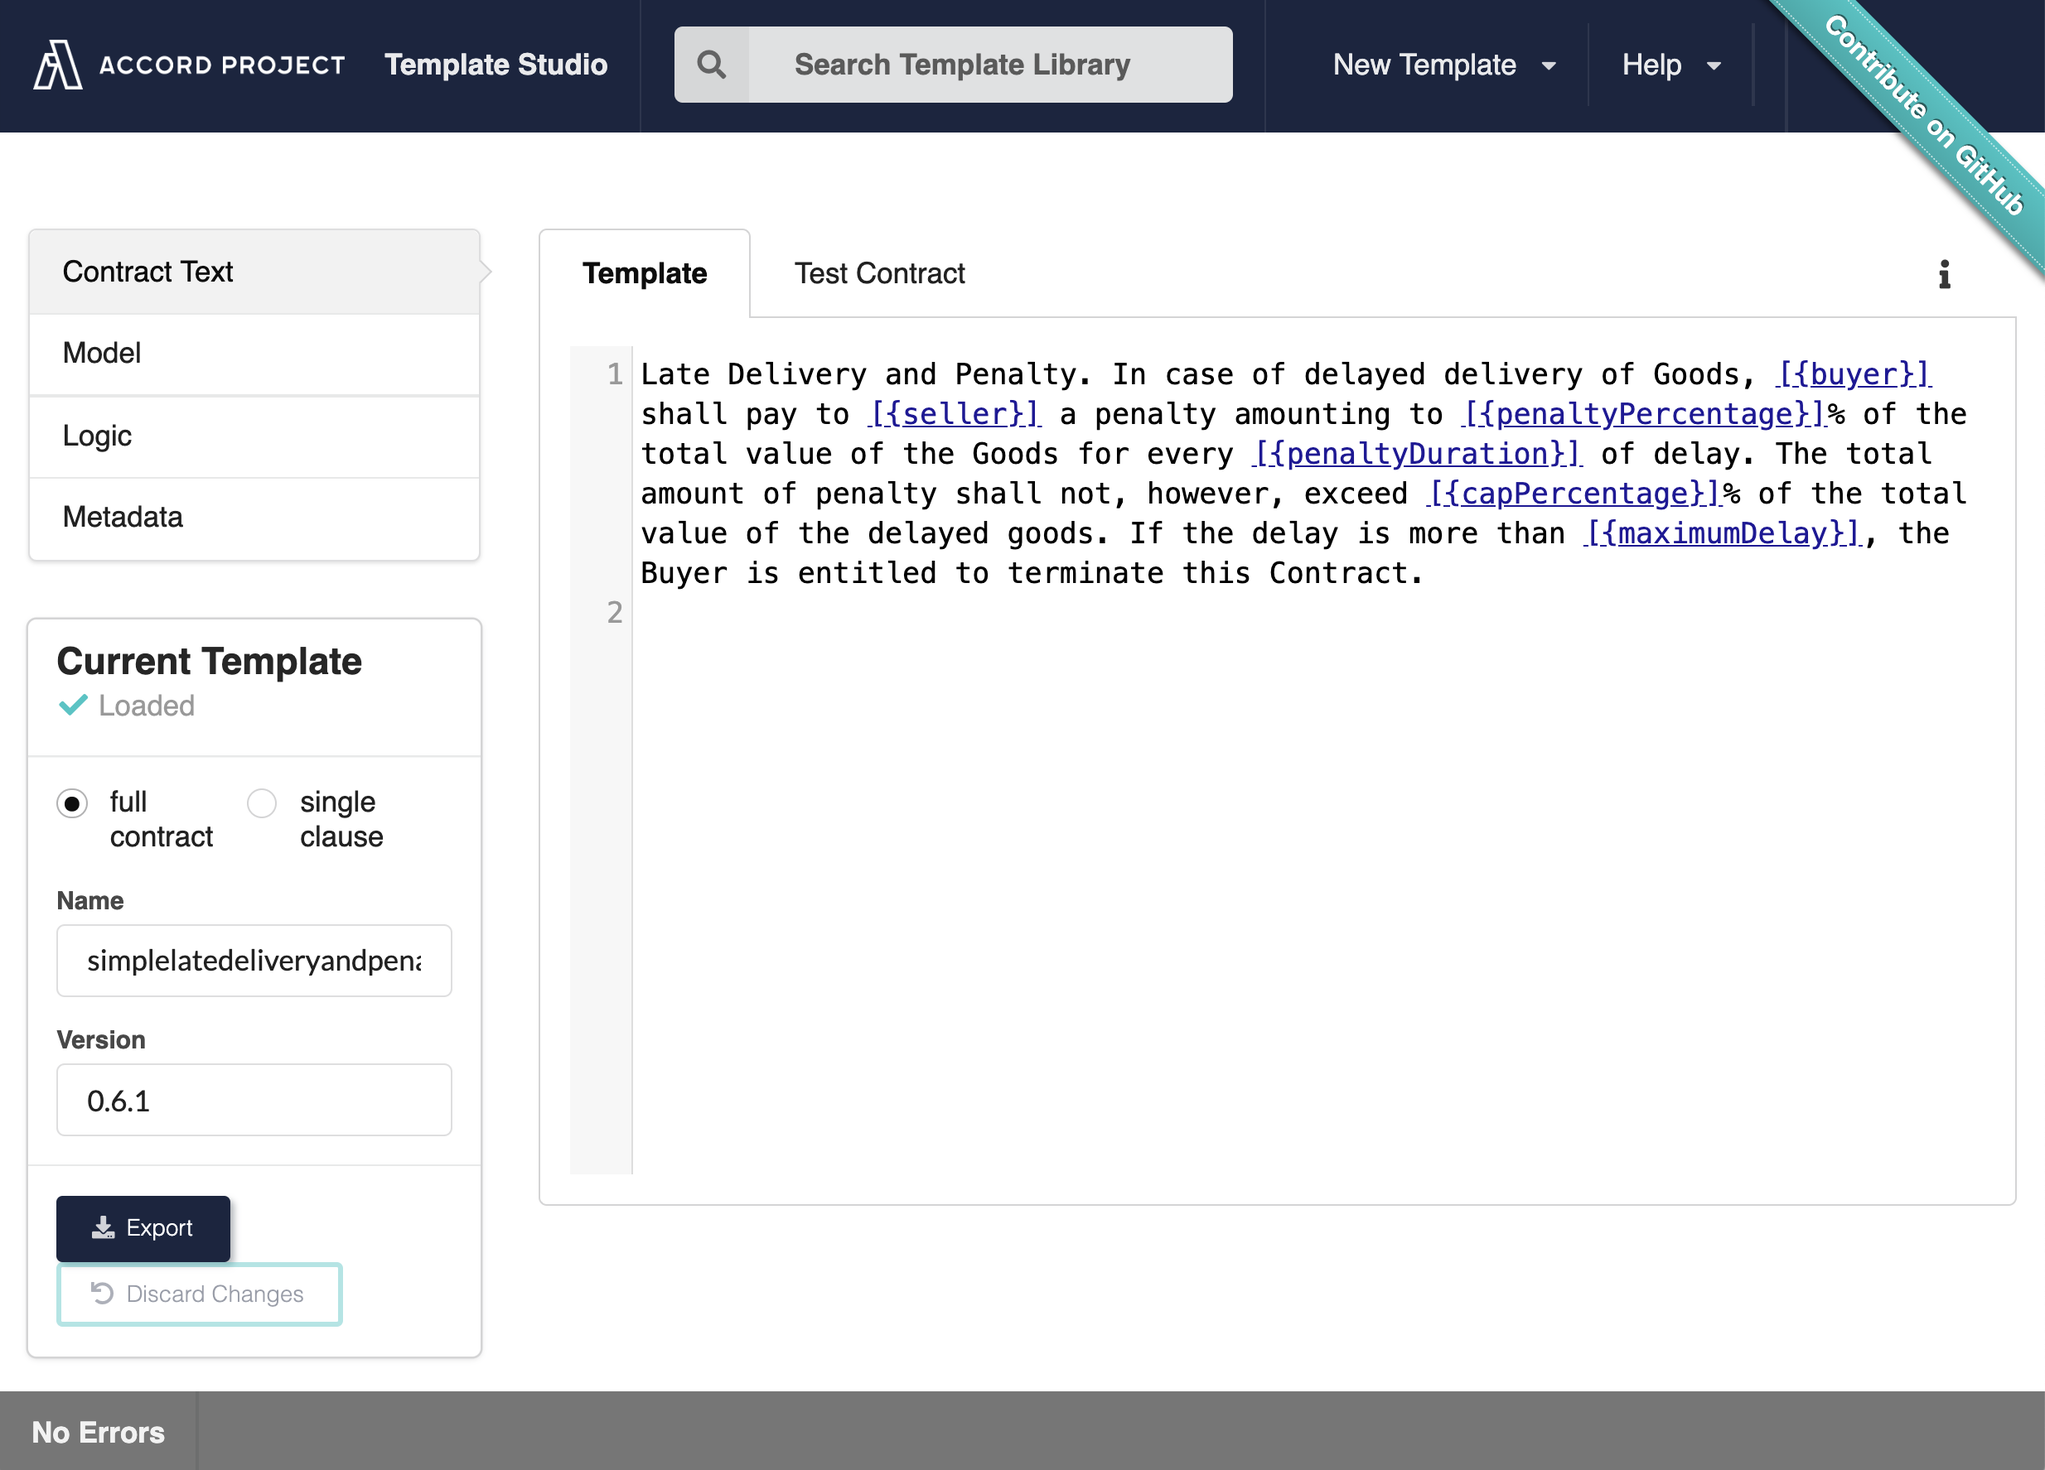
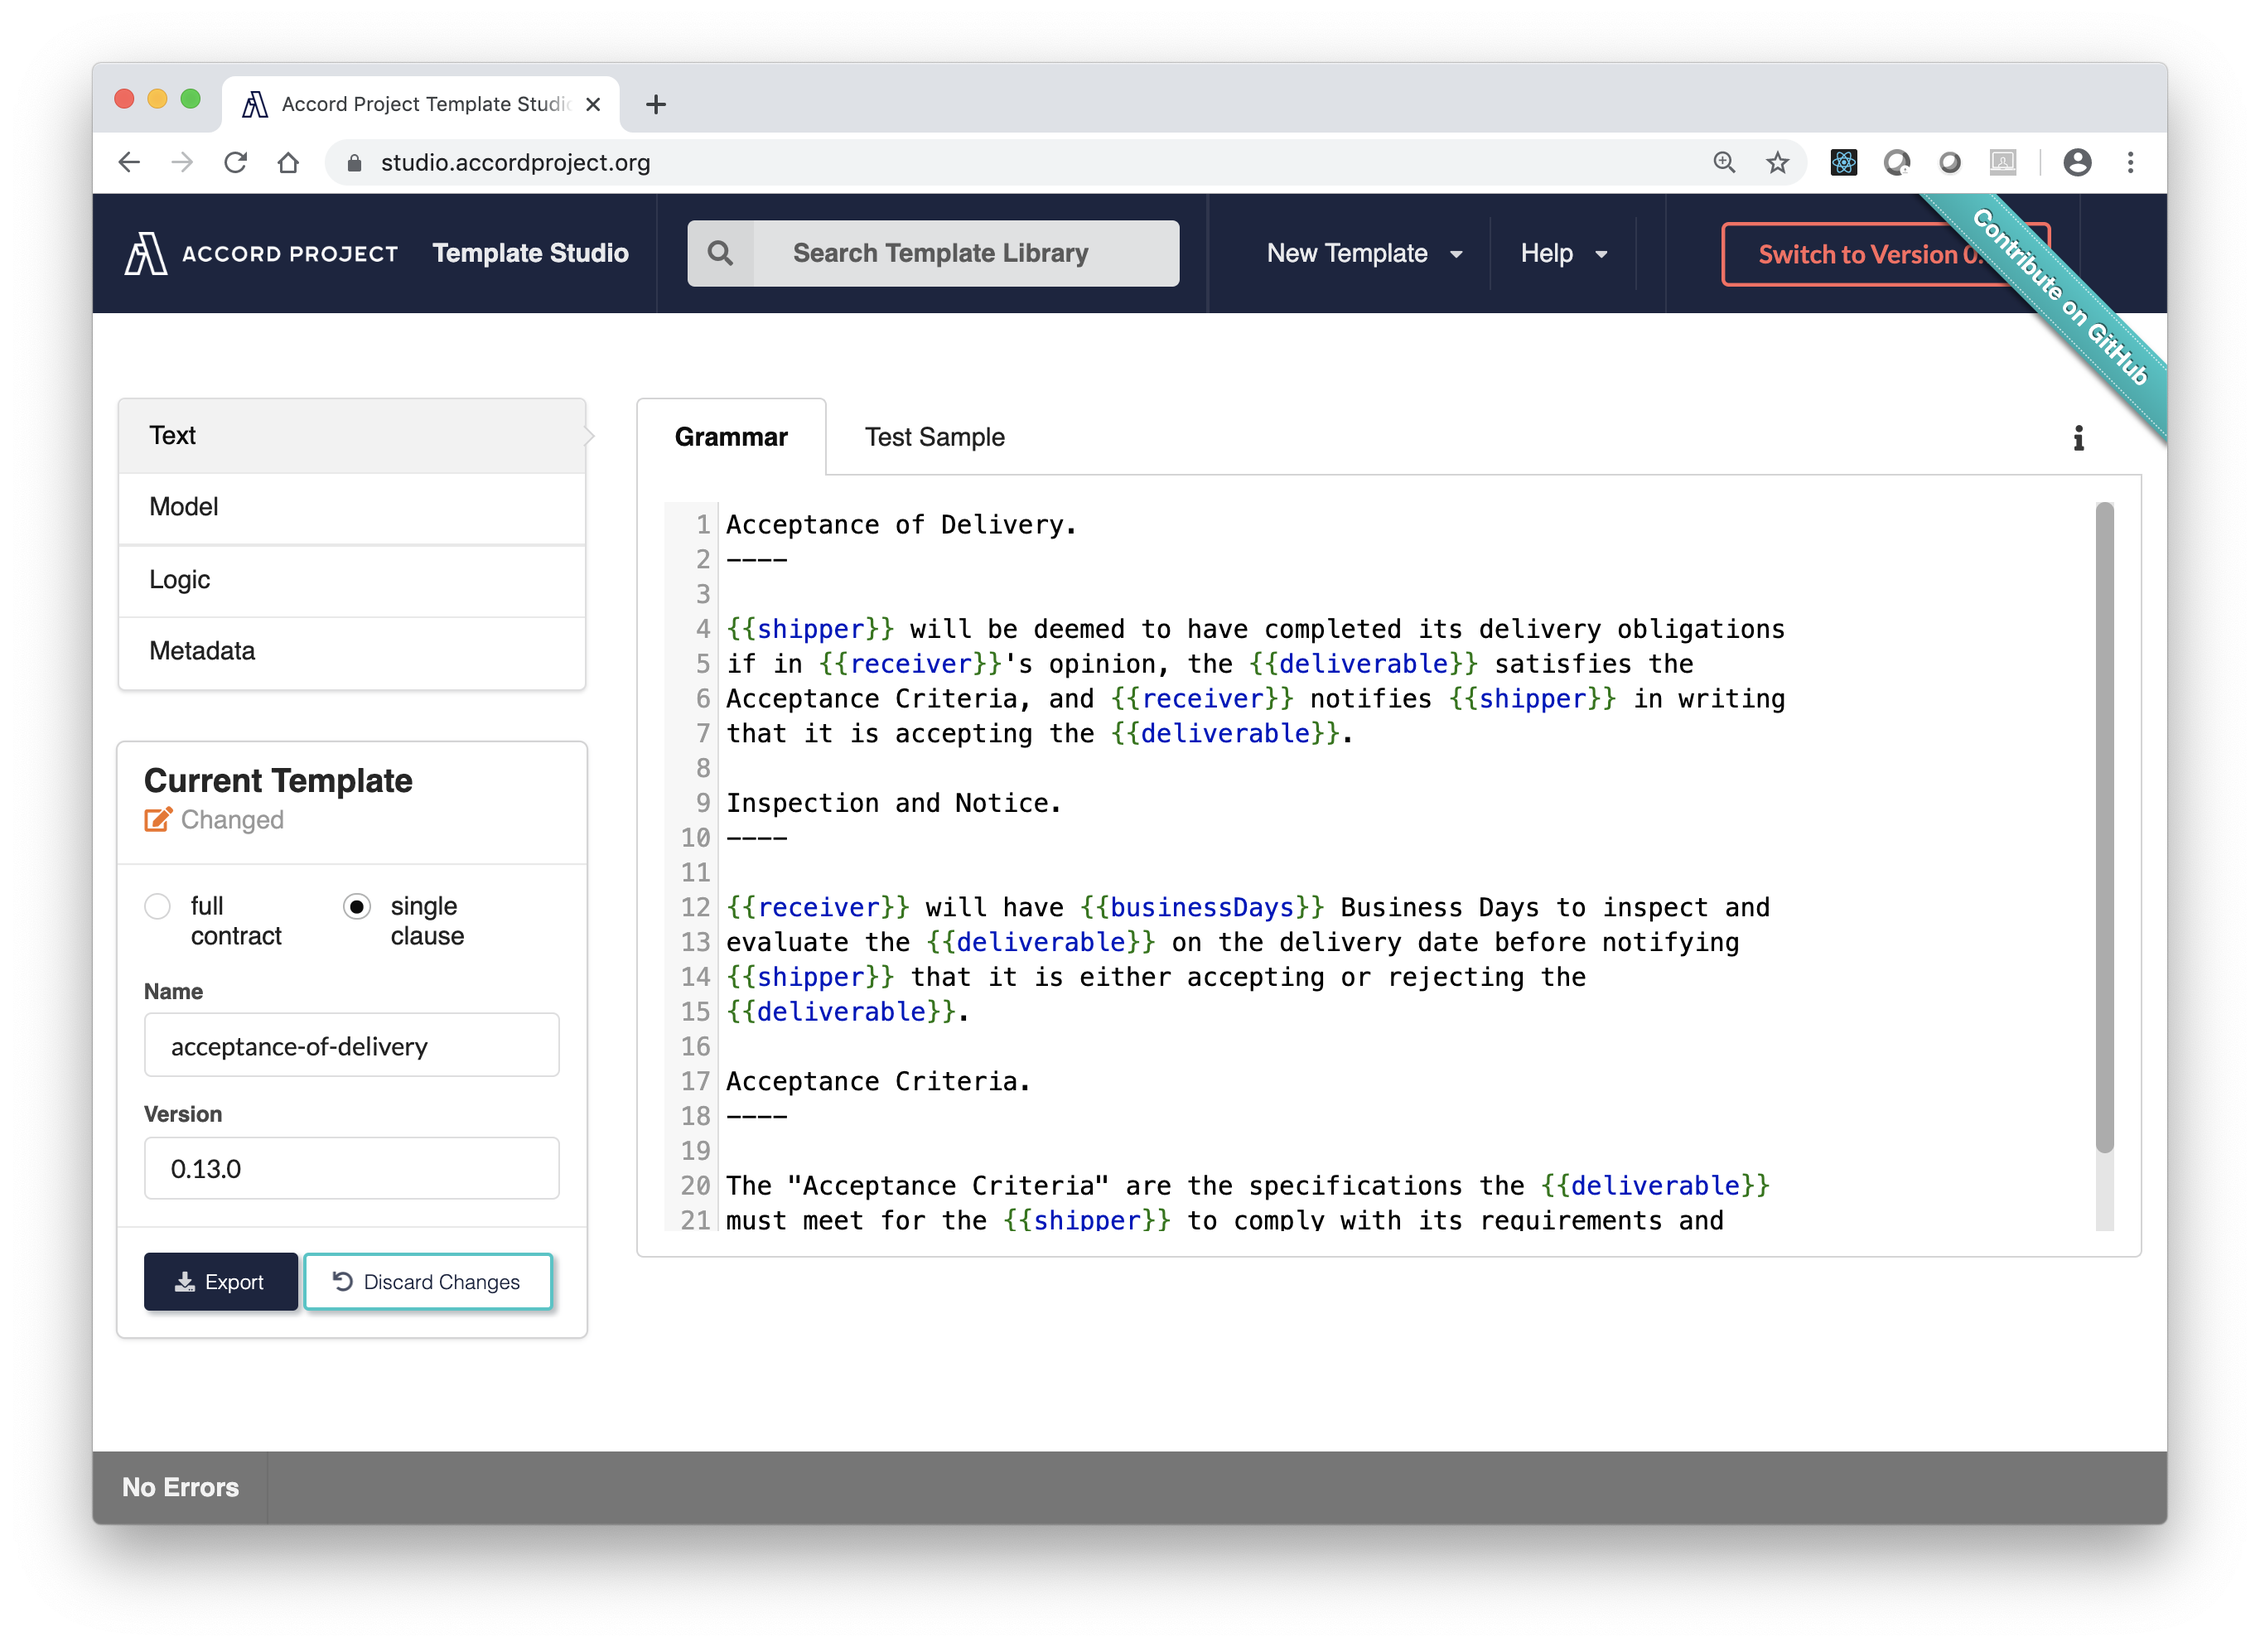
fix(website): update homepage, footer, and assets
- Updated homepage hero text and Features section with logo images
  for TypeScript and Concerto
- Disabled stale 'Who's Using This?' showcase section
- Removed outdated footer links (Stack Overflow, Twitter, Medium blog)
- Updated image paths from /docs/assets/020/ to /img/
- Added template.png, template_logic.png, template-playground.png,
  concerto-logo.svg, typescript-logo.svg to website/static/img/
- Updated grammar.png and studio.png
- Replaced blockchain reference in homepage copy
- Updated GitHub star button to point to template-archive repo

diff --git a/website/src/pages/index.js b/website/src/pages/index.js
@@ -14,18 +14,7 @@ const users = [
     infoLink: 'https://contractpen.com',
     pinned: true,
   },
-  {
-    caption: 'REIV SmartVicForms',
-    image: 'https://smartvicforms.com.au/assets/Logo/reiv-smartVicforms%20logo-Full%20Colour.svg',
-    infoLink: 'https://smartvicforms.com.au',
-    pinned: true,
-  },
-  {
-    caption: 'beNEXT',
-    image: 'https://smartvicforms.com.au/assets/Logo/beNext_orange-darkgreen-logo.svg',
-    infoLink: 'https://www.benext.io',
-    pinned: true,
-  },
+
 ];
 
 function Button({ href, target, children }) {
@@ -45,7 +34,7 @@ function HomeSplash() {
         <div className="wrapper homeWrapper">
           <div className="inner">
             <h1 className="projectTitle">
-              <span className="lead">Open Source </span>Documentation
+              <span className="lead">Smart Legal Contracts, </span>Open Source
             </h1>
             <div className="section promoSection">
               <div className="promoRow">
@@ -64,26 +53,31 @@ function HomeSplash() {
 }
 
 function Features() {
-  const items = [
+  const coreTools = [
     {
       title: <a href="/docs/started-installation"><img src="/img/cicero-logo.svg" alt="Cicero" /></a>,
       content: 'Create templates for human-readable and machine-executable contracts using Open Source <a href="/docs/started-installation">Cicero</a>.',
     },
     {
-      title: <a href="/docs/logic-typescript"><strong>Template Logic</strong></a>,
+      title: <a href="/docs/logic-typescript"><img src="/img/typescript-logo.svg" alt="TypeScript" /></a>,
       content: 'Write executable business logic for legal contracts using <a href="/docs/logic-typescript">TypeScript</a>, with types generated from your Concerto model.',
     },
     {
-      title: <a href="https://concerto.accordproject.org/docs/intro">Concerto</a>,
+      title: <a href="https://concerto.accordproject.org/docs/intro"><img src="/img/concerto-logo.svg" alt="Concerto" /></a>,
       content: 'Model the data for your contracts in a platform neutral format with the <a href="https://concerto.accordproject.org/docs/intro">Concerto</a> schema language.',
     },
+  ];
+
+  const ecosystemLinks = [
     {
-      title: <a href="https://templates.accordproject.org/">Template Library</a>,
-      content: 'Find user-contributed open source templates in the <a href="https://templates.accordproject.org/">Template Library</a>.',
+      href: 'https://templates.accordproject.org/',
+      label: 'Template Library',
+      content: 'Browse user-contributed open source templates',
     },
     {
-      title: <a href="https://models.accordproject.org/">Model Repository</a>,
-      content: 'Use models from the <a href="https://models.accordproject.org/">Model Repository</a> to ensure interoperability between your templates.',
+      href: 'https://models.accordproject.org/',
+      label: 'Model Repository',
+      content: 'Reuse shared Concerto data models',
     },
   ];
 
@@ -91,13 +85,30 @@ function Features() {
     <div id="features" className="paddingBottom paddingTop">
       <div className="wrapper">
         <div className="gridBlock">
-          {items.map((item, i) => (
+          {coreTools.map((item, i) => (
             <div key={i} className="blockElement alignCenter threeByGridBlock">
               <div className="blockContent">
                 <h2>{item.title}</h2>
                 <div dangerouslySetInnerHTML={{ __html: item.content }} />
               </div>
             </div>
+          ))}
+        </div>
+        <div style={{
+          borderTop: '1px solid rgba(255,255,255,0.15)',
+          marginTop: '1.5rem',
+          paddingTop: '1rem',
+          textAlign: 'center',
+          lineHeight: '2',
+        }}>
+          <span style={{ color: '#888', fontSize: '0.75rem', textTransform: 'uppercase', letterSpacing: '0.1em', marginRight: '1.5rem' }}>Ecosystem</span>
+          {ecosystemLinks.map((link, i) => (
+            <React.Fragment key={i}>
+              {i > 0 && <span style={{ color: '#555', margin: '0 1rem' }}>·</span>}
+              <a href={link.href} style={{ fontSize: '0.9rem', color: '#aaa' }}>
+                {link.label} <span style={{ color: '#666', fontSize: '0.8rem' }}>— {link.content}</span>
+              </a>
+            </React.Fragment>
           ))}
         </div>
       </div>
@@ -141,26 +152,28 @@ function ContentBlock({ id, background, imageAlign, title, content, image, image
 
 function Showcase() {
   const pinnedUsers = users.filter(u => u.pinned);
-  if (pinnedUsers.length === 0) return null;
-  return (
-    <div className="productShowcaseSection paddingBottom" id="showcase">
-      <span className="line line--vertical"></span>
-      <h2>{"Who's"} <span className="strong">{"Using This?"}</span></h2>
-      <div className="typeset"><p>This project is used by the following companies</p></div>
-      <div className="logos">
-        {pinnedUsers.map((user, i) => (
-          <a href={user.infoLink} key={i}>
-            <img src={user.image} alt={user.caption} title={user.caption} />
-          </a>
-        ))}
-      </div>
-      <div className="more-users">
-        <a className="button button-filled" href="/users">
-          More Accord Project Users
-        </a>
-      </div>
-    </div>
-  );
+  return null;
+  // Disable while this section is rebuilt
+  // if (pinnedUsers.length === 0) return null;
+  // return (
+  //   <div className="productShowcaseSection paddingBottom" id="showcase">
+  //     <span className="line line--vertical"></span>
+  //     <h2>{"Who's"} <span className="strong">{"Using This?"}</span></h2>
+  //     <div className="typeset"><p>This project is used by the following companies</p></div>
+  //     <div className="logos">
+  //       {pinnedUsers.map((user, i) => (
+  //         <a href={user.infoLink} key={i}>
+  //           <img src={user.image} alt={user.caption} title={user.caption} />
+  //         </a>
+  //       ))}
+  //     </div>
+  //     <div className="more-users">
+  //       <a className="button button-filled" href="/users">
+  //         More Accord Project Users
+  //       </a>
+  //     </div>
+  //   </div>
+  // );
 }
 
 export default function Home() {
@@ -175,13 +188,13 @@ export default function Home() {
           <ContentBlock
             id="digitize-legal-contracts"
             title='Digitize <span class="strong">Legal Contracts</span>'
-            content="<div class='typeset'>Use <b><em>open source</em></b> tools from the Accord Project to digitize new or existing legal contracts, connect them to web services and deploy them to the cloud or a blockchain platform. The projects comprise all of the software necessary to author, edit and execute smart legal contracts in a standardized fashion.</div>"
+            content="<div class='typeset'>Use <b><em>open source</em></b> tools from the Accord Project to digitize new or existing legal contracts, connect them to web services and deploy them to the cloud. The projects comprise all of the software necessary to author, edit and execute smart legal contracts in a standardized fashion.</div>"
           />
           <ContentBlock
             id="templates"
             title="Templates"
             content="<div class='typeset'>Accord Project Templates are composed of three elements: the Text (the natural language), the Model (the data model), and the Logic (the executable business logic). When combined these three elements allow Accord Project templates to be both <b><em>human-readable</em></b> and <b><em>machine-executable</em></b>.</div>"
-            image="/docs/assets/020/template.png"
+            image="/img/template.png"
             imageAlt="The three elements of Accord Project templates: Text, Model, Logic. These elements form a triangle."
             imageAlign="right"
           />
@@ -190,7 +203,7 @@ export default function Home() {
             background="dark"
             title="Text"
             content='<div class="typeset">CiceroMark lets you capture the data in a natural language clause or contract text through <b><em>template variables</em></b>. And it supports rich text <b><em>markdown</em></b> to ensure that your contracts look professional.</div>'
-            image="/docs/assets/020/grammar.png"
+            image="/img/grammar.png"
             imageAlt="An example of an Accord Project template text. There are 3 paragraphs of a contract with variables in each paragraphs and markdown annotations for formatting"
             imageAlign="left"
           />
@@ -207,15 +220,15 @@ export default function Home() {
             background="dark"
             title="Logic"
             content='<div class="typeset">Template logic is written in <em>TypeScript</em> using a class-based pattern that integrates directly with the Concerto data model. Logic can be embedded inline in template text or defined in a separate TypeScript class that extends <code>TemplateLogic</code>.</div>'
-            image="/docs/assets/020/template_logic.png"
+            image="/img/template_logic.png"
             imageAlt="Example of TypeScript template logic code"
             imageAlign="left"
           />
           <ContentBlock
             id="try"
-            title='Author <span class="strong">and Edit</span>'
+            title='Template <span class="strong">Playground</span>'
             content='<div class="typeset">You can author and test templates online in the Accord Project <a href="https://playground.accordproject.org">Template Playground</a>. Search for existing templates, edit the contract text and execute the logic.</div>'
-            image="/docs/assets/020/studio.png"
+            image="/img/template-playground.png"
             imageAlt="An example a template being edited. There is an option to edit the full contract or a single clause. There is also a search bar at the top center for users to search for specific templates."
             imageAlign="right"
           />

diff --git a/website/src/theme/Footer/index.js b/website/src/theme/Footer/index.js
@@ -47,16 +47,7 @@ export default function Footer() {
           <h5>Community</h5>
           <ul>
             <li>
-              <a href="/users">User Showcase</a>
-            </li>
-            <li>
-              <a href="http://stackoverflow.com/questions/tagged/cicero" target="_blank" rel="noreferrer noopener">Stack Overflow</a>
-            </li>
-            <li>
               <a href="https://discord.com/invite/Zm99SKhhtA">Discord</a>
-            </li>
-            <li>
-              <a href="https://twitter.com/accordhq" target="_blank" rel="noreferrer noopener">Twitter</a>
             </li>
           </ul>
         </div>
@@ -64,16 +55,13 @@ export default function Footer() {
           <h5>More</h5>
           <ul>
             <li>
-              <a href="https://medium.com/@accordhq">Blog</a>
-            </li>
-            <li>
               <a href="https://vimeo.com/accordproject">Vimeo</a>
             </li>
             <li>
               <a href="https://github.com/accordproject">GitHub</a>
             </li>
             <li>
-              <a className="github-button" href="https://github.com/accordproject/cicero" data-icon="octicon-star" data-count-href="/accordproject/cicero/stargazers" data-show-count="true" data-count-aria-label="# stargazers on GitHub" aria-label="Star this project on GitHub">Star</a>
+              <a className="github-button" href="https://github.com/accordproject/template-archive" data-icon="octicon-star" data-count-href="/accordproject/template-engine/stargazers" data-show-count="true" data-count-aria-label="# stargazers on GitHub" aria-label="Star this project on GitHub">Star</a>
             </li>
           </ul>
         </div>
